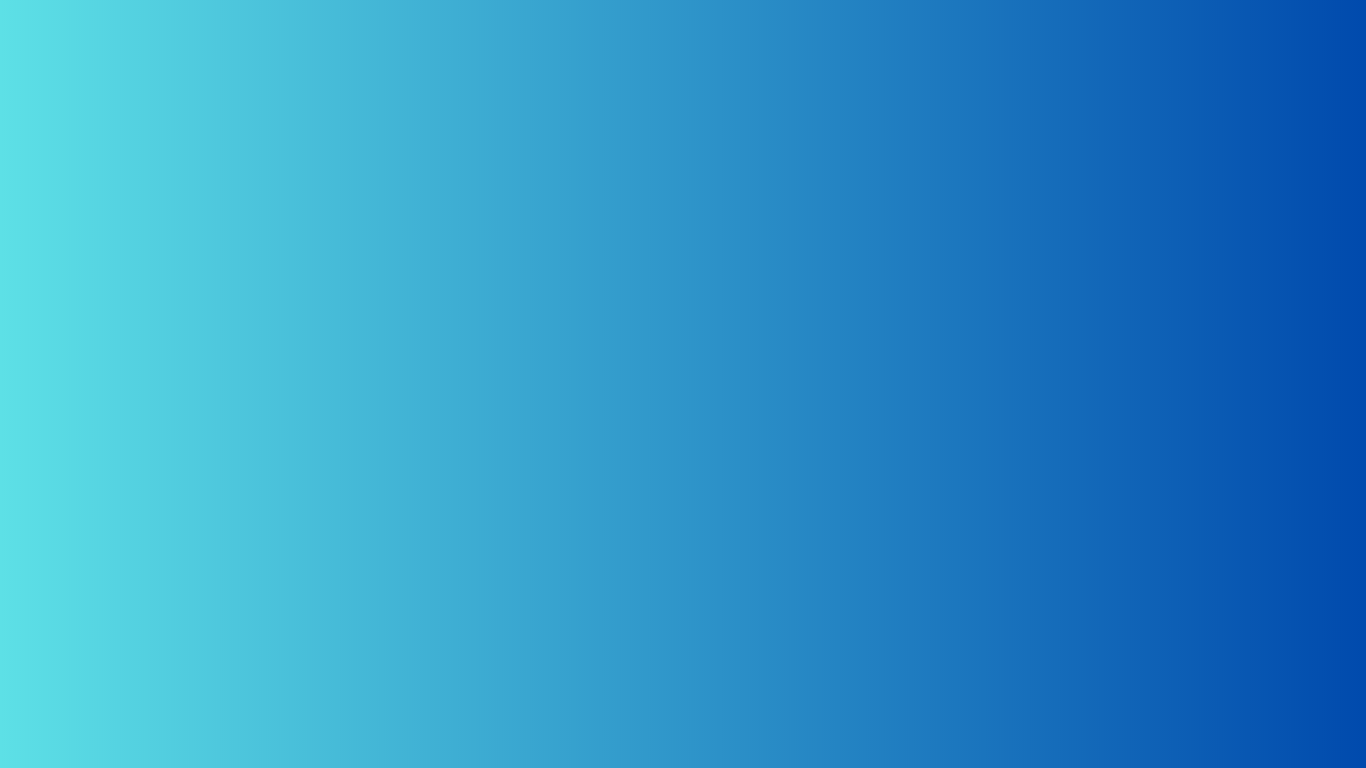
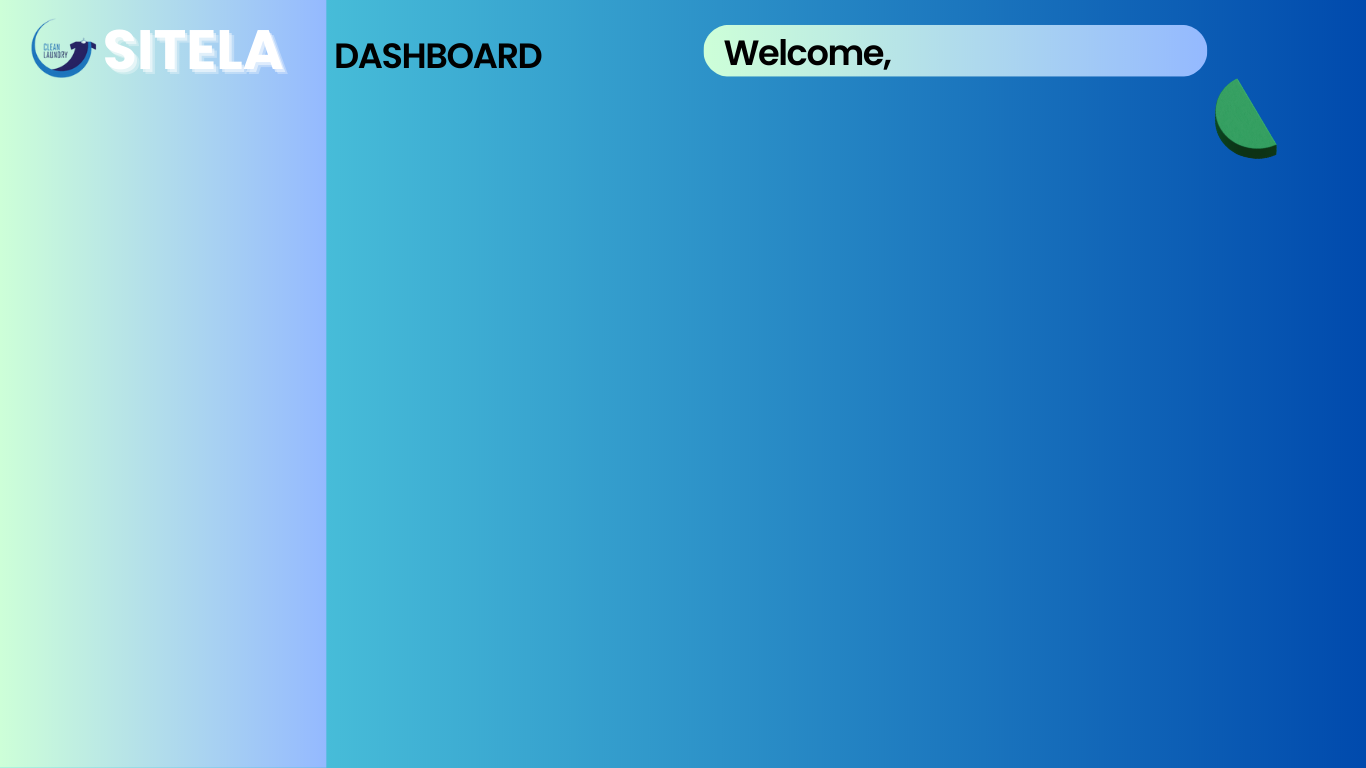
manage user admin

Changed region(s): [[0.0, 0.0, 0.3997, 1.0], [0.4919, 0.0312, 0.8917, 0.125], [0.8917, 0.0938, 0.9531, 0.2188]]

diff --git a/src/form/ManageUser.java b/src/form/ManageUser.java
@@ -5,17 +5,26 @@
  */
 package form;
 
+import java.sql.Connection;
+import java.sql.ResultSet;
+import java.sql.Statement;
+import javax.swing.table.DefaultTableModel;
+
 /**
  *
  * @author LEGION
  */
 public class ManageUser extends javax.swing.JFrame {
-
+public Statement st;
+public ResultSet rs;
+String sql;
+Connection cn = koneksi.KoneksiDatabase.BukaKoneksi();
     /**
      * Creates new form ManageUser
      */
     public ManageUser() {
         initComponents();
+        TampilData();
     }
 
     /**
@@ -31,9 +40,13 @@ public class ManageUser extends javax.swing.JFrame {
         jButton2 = new javax.swing.JButton();
         jButton3 = new javax.swing.JButton();
         jButton4 = new javax.swing.JButton();
+        jScrollPane1 = new javax.swing.JScrollPane();
+        jTable1 = new javax.swing.JTable();
+        jLabel1 = new javax.swing.JLabel();
 
         setDefaultCloseOperation(javax.swing.WindowConstants.EXIT_ON_CLOSE);
         setResizable(false);
+        getContentPane().setLayout(null);
 
         jButton1.setBackground(new java.awt.Color(0, 204, 204));
         jButton1.setFont(new java.awt.Font("Berlin Sans FB Demi", 0, 14)); // NOI18N
@@ -44,39 +57,43 @@ public class ManageUser extends javax.swing.JFrame {
                 jButton1ActionPerformed(evt);
             }
         });
+        getContentPane().add(jButton1);
+        jButton1.setBounds(0, 170, 325, 50);
 
         jButton2.setText("jButton2");
+        getContentPane().add(jButton2);
+        jButton2.setBounds(0, 250, 320, 40);
 
         jButton3.setText("jButton3");
+        getContentPane().add(jButton3);
+        jButton3.setBounds(0, 320, 320, 50);
 
         jButton4.setText("jButton4");
+        getContentPane().add(jButton4);
+        jButton4.setBounds(0, 400, 320, 50);
 
-        javax.swing.GroupLayout layout = new javax.swing.GroupLayout(getContentPane());
-        getContentPane().setLayout(layout);
-        layout.setHorizontalGroup(
-            layout.createParallelGroup(javax.swing.GroupLayout.Alignment.LEADING)
-            .addGroup(layout.createSequentialGroup()
-                .addGap(40, 40, 40)
-                .addGroup(layout.createParallelGroup(javax.swing.GroupLayout.Alignment.LEADING)
-                    .addComponent(jButton1, javax.swing.GroupLayout.PREFERRED_SIZE, 325, javax.swing.GroupLayout.PREFERRED_SIZE)
-                    .addComponent(jButton2, javax.swing.GroupLayout.PREFERRED_SIZE, 320, javax.swing.GroupLayout.PREFERRED_SIZE)
-                    .addComponent(jButton3, javax.swing.GroupLayout.PREFERRED_SIZE, 320, javax.swing.GroupLayout.PREFERRED_SIZE)
-                    .addComponent(jButton4, javax.swing.GroupLayout.PREFERRED_SIZE, 320, javax.swing.GroupLayout.PREFERRED_SIZE))
-                .addContainerGap(1001, Short.MAX_VALUE))
-        );
-        layout.setVerticalGroup(
-            layout.createParallelGroup(javax.swing.GroupLayout.Alignment.LEADING)
-            .addGroup(layout.createSequentialGroup()
-                .addGap(117, 117, 117)
-                .addComponent(jButton1, javax.swing.GroupLayout.PREFERRED_SIZE, 50, javax.swing.GroupLayout.PREFERRED_SIZE)
-                .addGap(30, 30, 30)
-                .addComponent(jButton2, javax.swing.GroupLayout.PREFERRED_SIZE, 40, javax.swing.GroupLayout.PREFERRED_SIZE)
-                .addGap(30, 30, 30)
-                .addComponent(jButton3, javax.swing.GroupLayout.PREFERRED_SIZE, 50, javax.swing.GroupLayout.PREFERRED_SIZE)
-                .addGap(30, 30, 30)
-                .addComponent(jButton4, javax.swing.GroupLayout.PREFERRED_SIZE, 50, javax.swing.GroupLayout.PREFERRED_SIZE)
-                .addContainerGap(371, Short.MAX_VALUE))
-        );
+        jTable1.setFont(new java.awt.Font("Berlin Sans FB Demi", 0, 18)); // NOI18N
+        jTable1.setModel(new javax.swing.table.DefaultTableModel(
+            new Object [][] {
+                {null, null, null, null},
+                {null, null, null, null},
+                {null, null, null, null},
+                {null, null, null, null}
+            },
+            new String [] {
+                "No", "Id", "Nama", "Username"
+            }
+        ));
+        jTable1.setAutoscrolls(false);
+        jScrollPane1.setViewportView(jTable1);
+
+        getContentPane().add(jScrollPane1);
+        jScrollPane1.setBounds(380, 450, 930, 280);
+
+        jLabel1.setIcon(new javax.swing.ImageIcon(getClass().getResource("/aset/6.png"))); // NOI18N
+        jLabel1.setText("jLabel1");
+        getContentPane().add(jLabel1);
+        jLabel1.setBounds(0, 0, 1366, 768);
 
         setSize(new java.awt.Dimension(1380, 805));
         setLocationRelativeTo(null);
@@ -92,6 +109,38 @@ public class ManageUser extends javax.swing.JFrame {
     /**
      * @param args the command line arguments
      */
+    private void TampilData(){
+        try {
+            st = cn.createStatement();
+            rs = st.executeQuery("SELECT * FROM user");
+            
+            DefaultTableModel model = new DefaultTableModel();
+            model.addColumn("No.");
+            model.addColumn("Id");
+            model.addColumn("Nama");
+            model.addColumn("Username");
+            
+            int no = 1;
+            
+            model.getDataVector().removeAllElements();
+            model.fireTableDataChanged();
+            model.setRowCount(0);
+            
+            while (rs.next()) {
+                Object[] data = {
+                    no ++,
+                    rs.getString("id"),
+                    rs.getString("nama"),
+                    rs.getString("username"),
+                };
+                model.addRow(data);
+                jTable1.setModel(model);
+                
+            }
+        } catch (Exception e) {
+        }
+    }
+    
     public static void main(String args[]) {
         /* Set the Nimbus look and feel */
         //<editor-fold defaultstate="collapsed" desc=" Look and feel setting code (optional) ">
@@ -129,5 +178,8 @@ public class ManageUser extends javax.swing.JFrame {
     private javax.swing.JButton jButton2;
     private javax.swing.JButton jButton3;
     private javax.swing.JButton jButton4;
+    private javax.swing.JLabel jLabel1;
+    private javax.swing.JScrollPane jScrollPane1;
+    private javax.swing.JTable jTable1;
     // End of variables declaration//GEN-END:variables
 }
